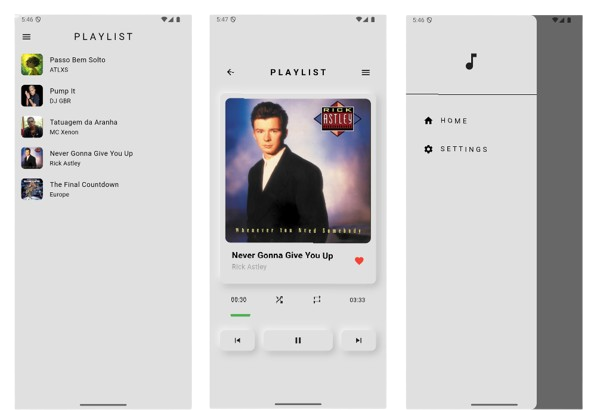
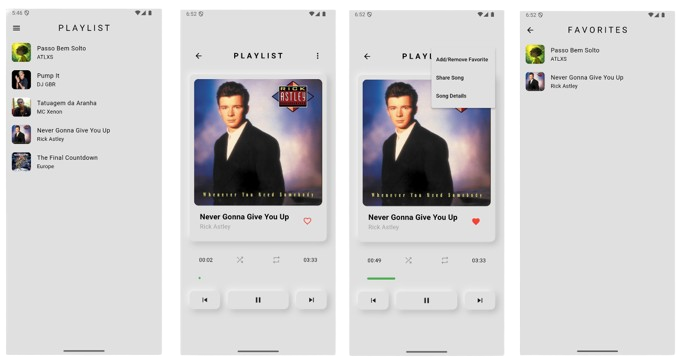
flutter hw done

diff --git a/flutter_hw/musicapp/lib/pages/song_page.dart b/flutter_hw/musicapp/lib/pages/song_page.dart
@@ -46,7 +46,79 @@ class SongPage extends StatelessWidget {
                         ),
                       ),
 
-                      IconButton(onPressed: () {}, icon: Icon(Icons.menu)),
+                      PopupMenuButton<String>(
+                        onSelected: (value) {
+                          if (value == 'favorite') {
+                            Provider.of<PlaylistProvider>(
+                              context,
+                              listen: false,
+                            ).toggleFavorite(
+                              Provider.of<PlaylistProvider>(
+                                    context,
+                                    listen: false,
+                                  ).currentSongIndex ??
+                                  0,
+                            );
+                          } else if (value == 'share') { 
+                            //TODO                                                       
+                          } else if (value == 'details') {
+                            // Exibir detalhes da música
+                            final currentSong =
+                                Provider.of<PlaylistProvider>(
+                                  context,
+                                  listen: false,
+                                ).playlist[Provider.of<PlaylistProvider>(
+                                      context,
+                                      listen: false,
+                                    ).currentSongIndex ??
+                                    0];
+                            showDialog(
+                              context: context,
+                              builder:
+                                  (context) => AlertDialog(
+                                    title: Text(currentSong.songName),
+                                    content: Column(
+                                      mainAxisSize: MainAxisSize.min,
+                                      children: [
+                                        Text(
+                                          'Artist: ${currentSong.artistName}\nAlbum:',
+                                        ),
+                                        const SizedBox(height: 10),
+                                        ClipRRect(
+                                          borderRadius: BorderRadius.circular(12),
+                                          child: Image.asset(
+                                            currentSong.albumArtImagePath,
+                                            fit: BoxFit.cover,
+                                          ),
+                                        ),
+                                      ],
+                                    ),
+                                    actions: [
+                                      TextButton(
+                                        onPressed: () => Navigator.pop(context),
+                                        child: const Text('Close'),
+                                      ),
+                                    ],
+                                  ),
+                            );
+                          }
+                        },
+                        itemBuilder:
+                            (context) => [
+                              const PopupMenuItem(
+                                value: 'favorite',
+                                child: Text('Add/Remove Favorite'),
+                              ),
+                              const PopupMenuItem(
+                                value: 'share',
+                                child: Text('Share Song'),
+                              ),
+                              const PopupMenuItem(
+                                value: 'details',
+                                child: Text('Song Details'),
+                              ),
+                            ],
+                      ),
                     ],
                   ),
 
@@ -87,14 +159,26 @@ class SongPage extends StatelessWidget {
                                         fontSize: 16,
                                         color: Colors.grey,
                                       ),
-                                      overflow: TextOverflow.ellipsis, 
-                                      maxLines: 1, 
+                                      overflow: TextOverflow.ellipsis,
+                                      maxLines: 1,
                                     ),
                                   ],
                                 ),
                               ),
 
-                              const Icon(Icons.favorite, color: Colors.red),
+                              IconButton(
+                                icon: Icon(
+                                  value.isFavorite(value.currentSongIndex ?? 0)
+                                      ? Icons.favorite
+                                      : Icons.favorite_border,
+                                  color: Colors.red,
+                                ),
+                                onPressed: () {
+                                  value.toggleFavorite(
+                                    value.currentSongIndex ?? 0,
+                                  );
+                                },
+                              ),
                             ],
                           ),
                         ),
@@ -112,8 +196,28 @@ class SongPage extends StatelessWidget {
                           mainAxisAlignment: MainAxisAlignment.spaceBetween,
                           children: [
                             Text(formatTime(value.currentDuration)),
-                            const Icon(Icons.shuffle),
-                            const Icon(Icons.repeat),
+                            IconButton(
+                              icon: Icon(
+                                Icons.shuffle,
+                                color:
+                                    value.isShuffle
+                                        ? Colors.green
+                                        : Colors.grey,
+                              ),
+                              onPressed: () {
+                                value.toggleShuffle();
+                              },
+                            ),
+                            IconButton(
+                              icon: Icon(
+                                Icons.repeat,
+                                color:
+                                    value.isRepeat ? Colors.green : Colors.grey,
+                              ),
+                              onPressed: () {
+                                value.toggleRepeat();
+                              },
+                            ),
                             Text(formatTime(value.totalDuration)),
                           ],
                         ),

diff --git a/flutter_hw/musicapp/lib/models/playlist_provider.dart b/flutter_hw/musicapp/lib/models/playlist_provider.dart
@@ -44,10 +44,13 @@ class PlaylistProvider extends ChangeNotifier {
 
   // audio player
   final AudioPlayer _audioPlayer = AudioPlayer();
+  final List<int> _favoriteSongs = [];
 
   Duration _currentDuration = Duration.zero;
   Duration _totalDuration = Duration.zero;
   bool _isPlaying = false;
+  bool _isShuffle = false;
+  bool _isRepeat = false;
 
   void play() async {
     final String path = _playlist[_currentSongIndex!].audioPath;
@@ -84,26 +87,53 @@ class PlaylistProvider extends ChangeNotifier {
 
   void playNextSong() {
     if (_currentSongIndex != null) {
-      if (_currentSongIndex! < _playlist.length - 1) {
+      if (_isShuffle) {
+        _currentSongIndex = (List.generate(_playlist.length, (i) => i)..shuffle()).first;
+      } else if (_currentSongIndex! < _playlist.length - 1) {
         _currentSongIndex = _currentSongIndex! + 1;
       } else {
-        _currentSongIndex = 0;
+        return;
       }
       play();
     }
   }
 
-  void playPreviousSong() async {
+  void playPreviousSong() {
     if (_currentDuration.inSeconds > 2) {
       seek(Duration.zero);
     } else {
-      if (_currentSongIndex! > 0) {
+      if (_isShuffle) {
+        _currentSongIndex = (List.generate(_playlist.length, (i) => i)..shuffle()).first;
+      } else if (_currentSongIndex! > 0) {
         _currentSongIndex = _currentSongIndex! - 1;
       } else {
-        _currentSongIndex = _playlist.length - 1;
+        return; 
       }
       play();
     }
+  }
+
+  void toggleShuffle() {
+    _isShuffle = !_isShuffle;
+    notifyListeners();
+  }
+
+  void toggleRepeat() {
+    _isRepeat = !_isRepeat;
+    notifyListeners();
+  }
+
+  void toggleFavorite(int songIndex) {
+    if (_favoriteSongs.contains(songIndex)) {
+      _favoriteSongs.remove(songIndex); 
+    } else {
+      _favoriteSongs.add(songIndex);
+    }
+    notifyListeners();
+  }
+
+  bool isFavorite(int songIndex) {
+    return _favoriteSongs.contains(songIndex);
   }
 
   PlaylistProvider() {
@@ -122,7 +152,14 @@ class PlaylistProvider extends ChangeNotifier {
     });
 
     _audioPlayer.onPlayerComplete.listen((event) {
-      playNextSong();
+      if (_isRepeat) {
+        if (_currentSongIndex != null) {
+          _currentSongIndex = _currentSongIndex; 
+          play();
+        }
+      } else {
+        playNextSong();
+      }
     });
   }
 
@@ -132,6 +169,9 @@ class PlaylistProvider extends ChangeNotifier {
   bool get isPlaying => _isPlaying;
   Duration get currentDuration => _currentDuration;
   Duration get totalDuration => _totalDuration;
+  bool get isShuffle => _isShuffle;
+  bool get isRepeat => _isRepeat;
+  List<int> get favoriteSongs => _favoriteSongs;
 
   // Setters
   set currentSongIndex(int? index) {

diff --git a/flutter_hw/musicapp/lib/pages/favorites_page.dart b/flutter_hw/musicapp/lib/pages/favorites_page.dart
@@ -1,0 +1,54 @@
+import 'package:flutter/material.dart';
+import 'package:musicapp/models/playlist_provider.dart';
+import 'package:provider/provider.dart';
+
+class FavoritesPage extends StatelessWidget {
+  const FavoritesPage({super.key});
+
+  @override
+  Widget build(BuildContext context) {
+    return Scaffold(
+      appBar: AppBar(
+        title: const Text('F A V O R I T E S'),
+        centerTitle: true,
+        backgroundColor: Theme.of(context).colorScheme.surface,
+      ),
+      body: Consumer<PlaylistProvider>(
+        builder: (context, value, child) {
+          final favoriteSongs = value.favoriteSongs.map((index) => value.playlist[index]).toList();
+
+          if (favoriteSongs.isEmpty) {
+            return const Center(
+              child: Text(
+                'No favorites yet!',
+                style: TextStyle(fontSize: 18, fontWeight: FontWeight.bold),
+              ),
+            );
+          }
+
+          return ListView.builder(
+            itemCount: favoriteSongs.length,
+            itemBuilder: (context, index) {
+              final song = favoriteSongs[index];
+              return ListTile(
+                title: Text(song.songName),
+                subtitle: Text(song.artistName),
+                leading: SizedBox(
+                  width: 50,
+                  height: 50,
+                  child: ClipRRect(
+                    borderRadius: BorderRadius.circular(8),
+                    child: Image.asset(
+                      song.albumArtImagePath,
+                      fit: BoxFit.cover,
+                    ),
+                  ),
+                ),
+              );
+            },
+          );
+        },
+      ),
+    );
+  }
+}

diff --git a/flutter_hw/musicapp/lib/components/my_drawer.dart b/flutter_hw/musicapp/lib/components/my_drawer.dart
@@ -1,4 +1,5 @@
 import 'package:flutter/material.dart';
+import 'package:musicapp/pages/favorites_page.dart';
 import 'package:musicapp/pages/settings_page.dart';
 
 class MyDrawer extends StatelessWidget {
@@ -28,6 +29,24 @@ class MyDrawer extends StatelessWidget {
               title: const Text('H O M E'),
               leading: const Icon(Icons.home),
               onTap: () => {Navigator.pop(context)},
+            ),
+          ),
+          
+          // favourites tile
+          Padding(
+            padding: const EdgeInsets.only(left: 25.0, top: 10),
+            child: ListTile(
+              title: const Text('F A V O R I T E S'),
+              leading: const Icon(Icons.favorite),
+              onTap: () {
+                Navigator.pop(context);
+                Navigator.push(
+                  context,
+                  MaterialPageRoute(
+                    builder: (context) => const FavoritesPage(),
+                  ),
+                );
+              },
             ),
           ),
 

diff --git a/README.md b/README.md
@@ -1,2 +1,2 @@
 # ICM_113655
-ICM personal git repository for the android module
+ICM personal git repository for android and flutter modules.
